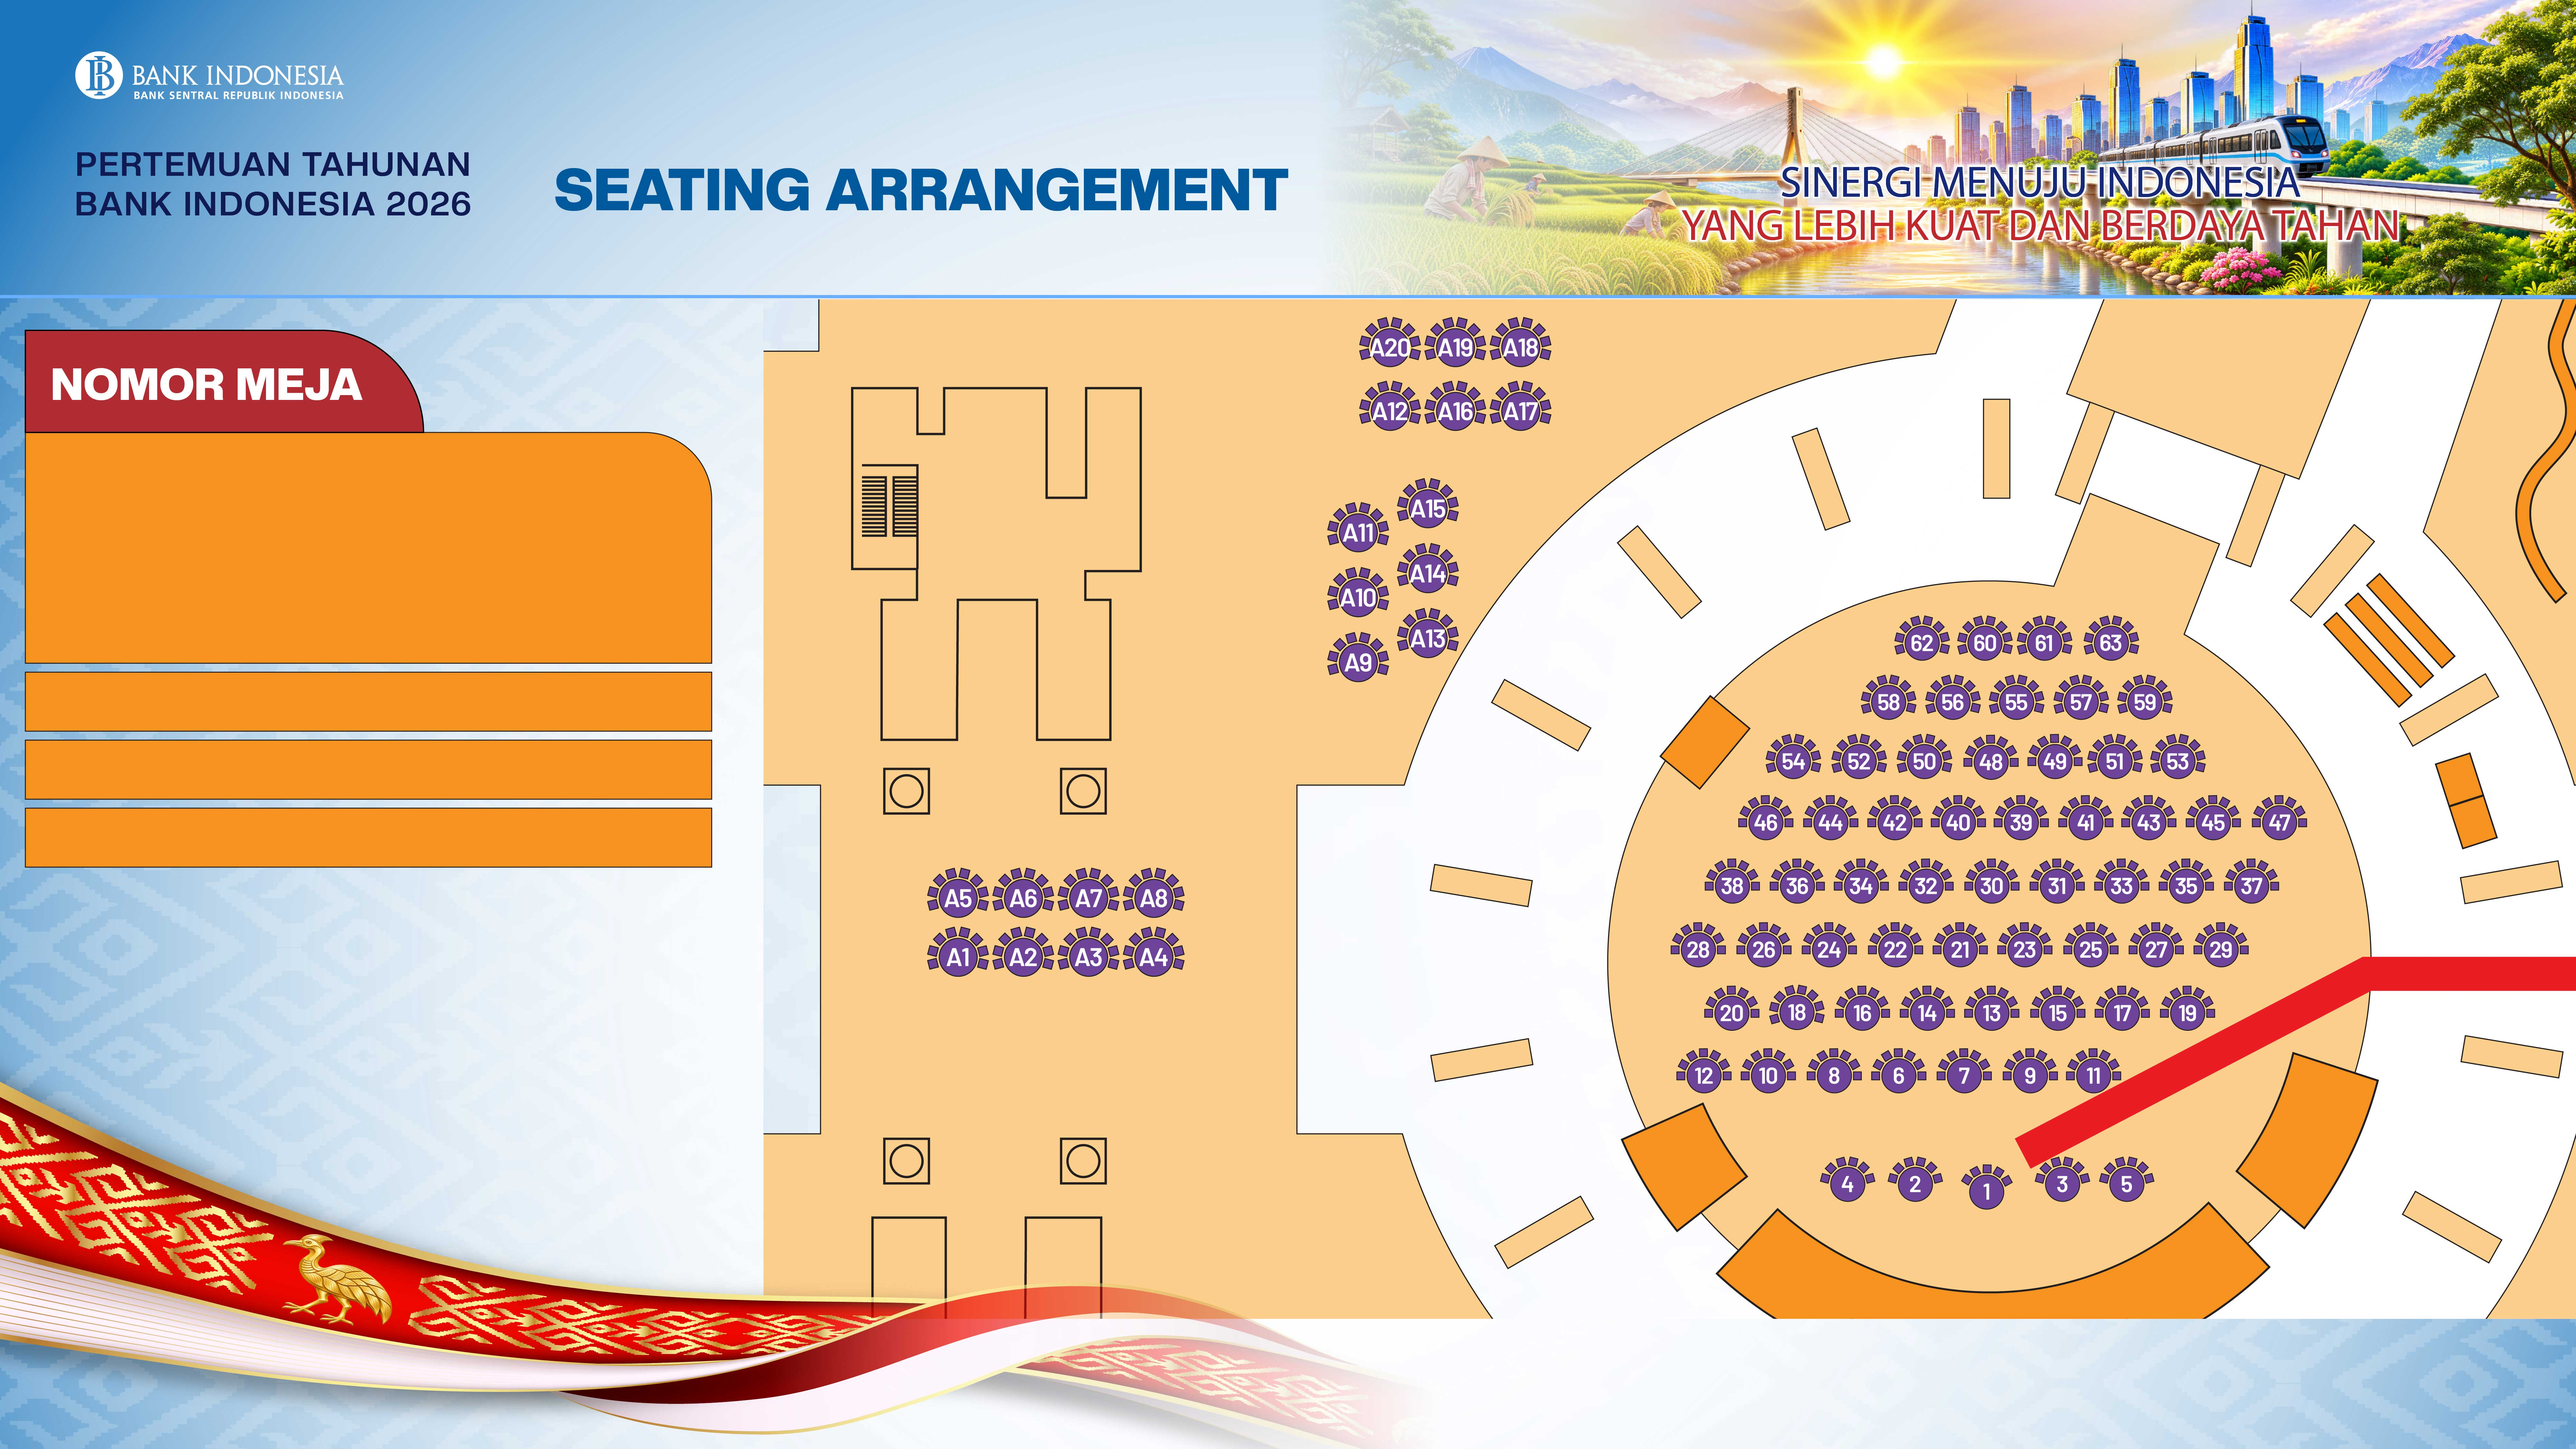
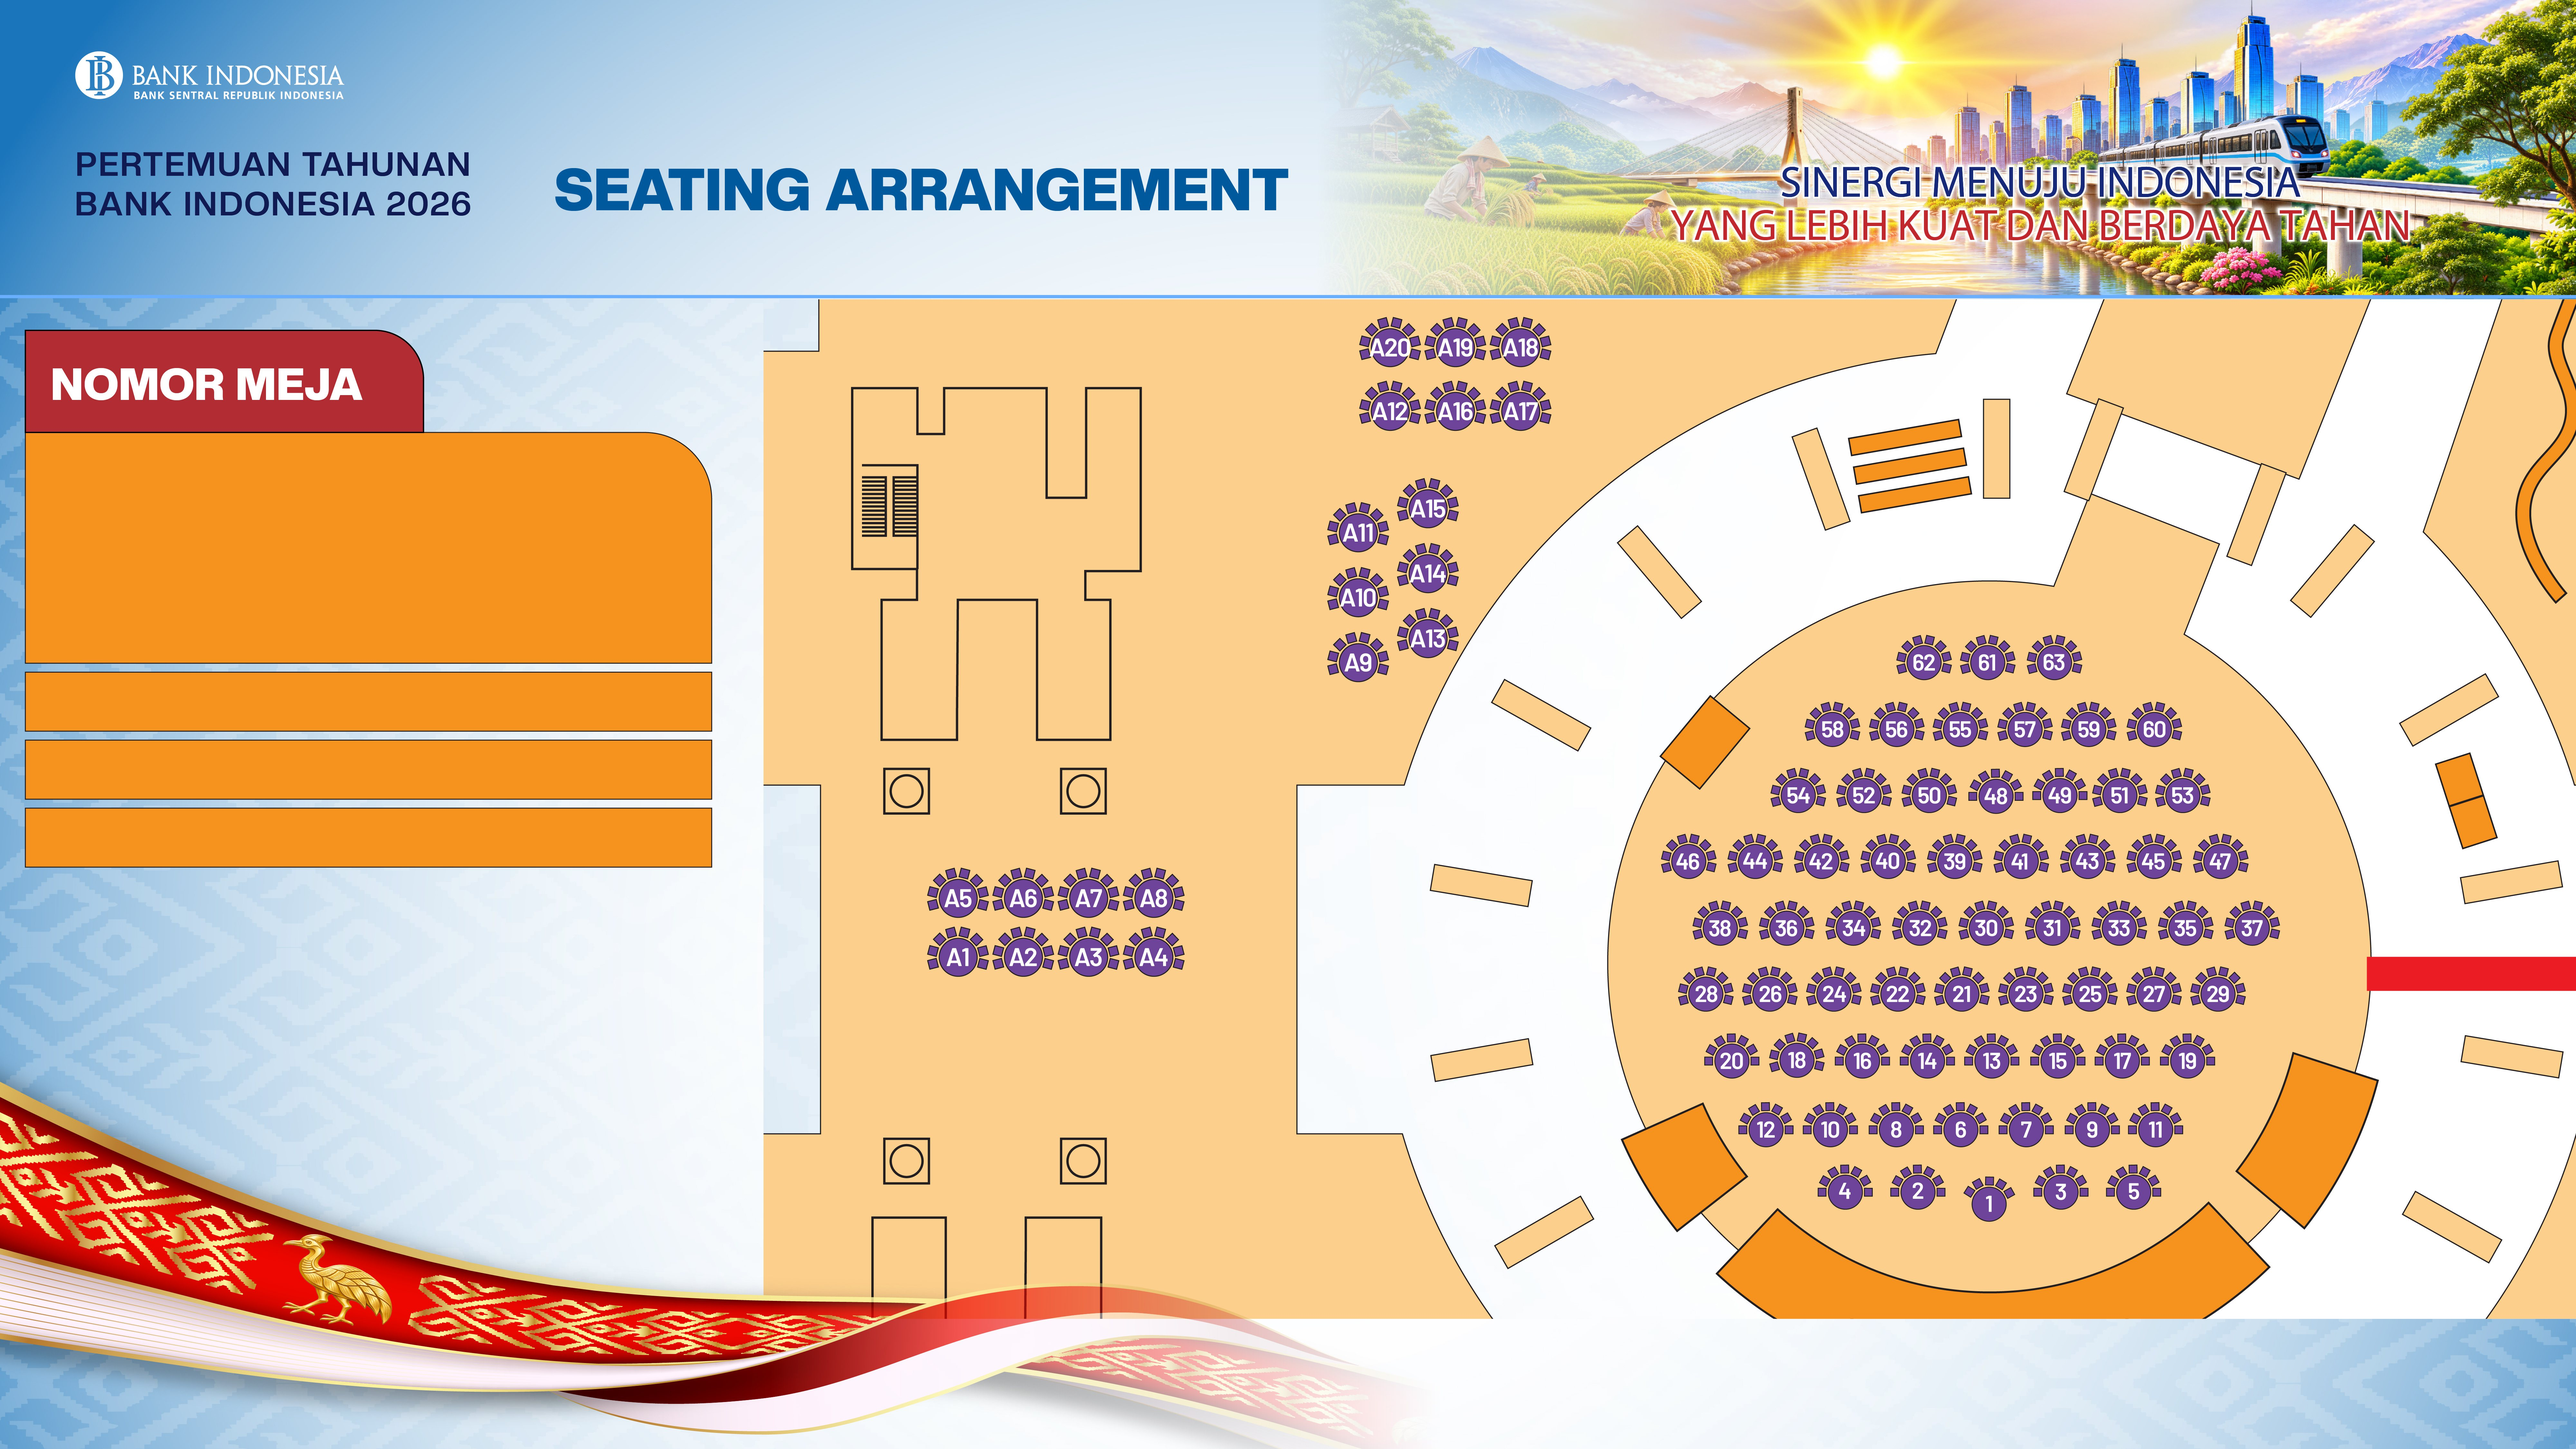
Seating: gambar denah baru & posisi meja disesuaikan
- assets/img/seating-bg.jpg diganti dengan denah terbaru (8000x4500,
  dikompres ulang 9,6 MB -> 2,5 MB)
- assets/seating-tables.json: posisi 83 meja (1-63, A1-A20) dideteksi ulang
  dari lingkaran meja pada gambar baru, efek berpendar tepat di meja
- Cache-bust gambar latar kiosk (seating.css v17) dan denah aplikasi
  petugas (m/ v1.0.2)

diff --git a/assets/seating.css b/assets/seating.css
@@ -14,7 +14,7 @@ body {
    jauh dari 16:9 (tablet 4:3, portrait), sehingga tidak pernah ada bilah polos. */
 body::before {
   content: ""; position: fixed; inset: -60px; z-index: -1;
-  background: url("img/seating-bg.jpg") center / cover no-repeat;
+  background: url("img/seating-bg.jpg?v=2") center / cover no-repeat;
   filter: blur(28px) saturate(1.1) brightness(.97);
 }
 
@@ -24,7 +24,7 @@ body::before {
   position: fixed; left: 50%; top: 50%; transform: translate(-50%, -50%);
   width: min(100vw, 177.78vh); width: min(100vw, 177.78dvh);
   aspect-ratio: 8000 / 4500;
-  background: url("img/seating-bg.jpg") center / 100% 100% no-repeat;
+  background: url("img/seating-bg.jpg?v=2") center / 100% 100% no-repeat;
   container-type: inline-size;
 }
 .stage.fitted { transform: none; }

diff --git a/m/sw.js b/m/sw.js
@@ -5,7 +5,7 @@
  * - API (../api/): selalu ke jaringan, tidak pernah di-cache (data peserta).
  * Naikkan VERSION setiap kali aset diubah.
  */
-const VERSION = 'm-1.0.1';
+const VERSION = 'm-1.0.2';
 const CACHE = 'cekmeja-' + VERSION;
 const SHELL = ['./', 'app.css', 'app.js', 'pwa.js', 'manifest.json', 'denah.php', '../assets/vendor/html5-qrcode.min.js', '../assets/icons/icon-192.png'];
 

diff --git a/m/index.php b/m/index.php
@@ -7,7 +7,7 @@ declare(strict_types=1);
  */
 require_once __DIR__ . '/../lib/functions.php';
 
-const M_VERSION = '1.0.1';
+const M_VERSION = '1.0.2';
 $cfg = app_config();
 $event = (string) $cfg['event_name'];
 $sub = (string) ($cfg['event_sub'] ?? '');
@@ -113,7 +113,7 @@ $v = function (string $f): string { return $f . '?v=' . (is_file(__DIR__ . '/' .
         <button type="button" class="link" id="btn-zoom">Perbesar</button>
       </div>
       <div class="map" id="map">
-        <img src="denah.php" alt="Denah seating" id="map-img" loading="lazy">
+        <img src="denah.php?v=<?= @filemtime(__DIR__ . '/../assets/img/seating-bg.jpg') ?>" alt="Denah seating" id="map-img" loading="lazy">
         <span class="pin" id="pin"><i></i><b id="pin-num"></b></span>
       </div>
     </div>
@@ -146,7 +146,7 @@ $v = function (string $f): string { return $f . '?v=' . (is_file(__DIR__ . '/' .
 <!-- denah diperbesar -->
 <div class="zoom" id="zoom" hidden>
   <div class="zoom-bar"><b id="zoom-title">Lokasi Meja</b><button type="button" class="icon-btn" id="zoom-close" aria-label="Tutup">✕</button></div>
-  <div class="zoom-body" id="zoom-body"><div class="zoom-inner" id="zoom-inner"><img src="denah.php" alt=""><span class="pin" id="zpin"><i></i><b id="zpin-num"></b></span></div></div>
+  <div class="zoom-body" id="zoom-body"><div class="zoom-inner" id="zoom-inner"><img src="denah.php?v=<?= @filemtime(__DIR__ . '/../assets/img/seating-bg.jpg') ?>" alt=""><span class="pin" id="zpin"><i></i><b id="zpin-num"></b></span></div></div>
 </div>
 
 <div class="loading" id="loading" hidden><span></span></div>

diff --git a/seating.php b/seating.php
@@ -39,7 +39,7 @@ $jsConfig = [
 <meta name="apple-mobile-web-app-capable" content="yes">
 <meta name="mobile-web-app-capable" content="yes">
 <link rel="icon" type="image/png" sizes="32x32" href="assets/icons/favicon-32.png">
-<link rel="stylesheet" href="assets/seating.css?v=16">
+<link rel="stylesheet" href="assets/seating.css?v=17">
 <style>
   @page { size: <?= e($cfg['print']['paper_size']) ?>; margin: 0; }
   @media print { #ticket { width: <?= e($cfg['print']['printable_width'] ?? '72mm') ?> !important; } }
